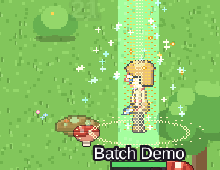
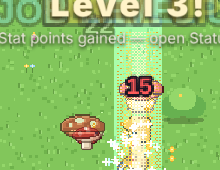
Batch 001: target-attached VFX follow their actor, demo test hardening, docs
- fx events carry an offset so slash/heal/level-up track their target
- demo checks facing against the real direction to the monster and
  triggers the hit reaction deterministically
- docs/art/BATCH001.md report, README and asset pipeline updates,
  in-game screenshots under docs/art/batch001/ingame

Claude-Session: https://claude.ai/code/session_01THGxN5U5MkyxvHYsgUsngi

diff --git a/src/core/world.ts b/src/core/world.ts
@@ -134,7 +134,7 @@ export interface Telegraph {
 
 export type WorldEvent =
   | { type: 'damage'; targetId: string; amount: number; crit: boolean; miss: boolean; kind: 'physical' | 'magic' | 'heal' | 'mp' | 'dot'; element?: Element }
-  | { type: 'fx'; fx: string; x: number; y: number; radius?: number; targetId?: string }
+  | { type: 'fx'; fx: string; x: number; y: number; radius?: number; targetId?: string; /** offset from the target, for effects that follow it */ offsetY?: number }
   | { type: 'projectile'; fromX: number; fromY: number; toX: number; toY: number; durationMs: number; fx: string; color?: string }
   | { type: 'levelUp'; kind: 'base' | 'job'; level: number }
   | { type: 'death'; id: string }
@@ -749,7 +749,7 @@ export class World {
     };
     if (kind === 'melee') {
       this.emit({ type: 'sound', key: 'swing' });
-      this.emit({ type: 'fx', fx: 'slash_small', x: m.x, y: m.y - 12 });
+      this.emit({ type: 'fx', fx: 'slash_small', x: m.x, y: m.y - 12, targetId: m.id, offsetY: -12 });
       resolve();
     } else {
       const travel = (dist(p.x, p.y, m.x, m.y) / this.data.balance.combat.projectileSpeed) * 1000;
@@ -924,7 +924,7 @@ export class World {
       this.recomputeStats();
       c.hp = this.stats.maxHp; c.mp = this.stats.maxMp; this.player.hp = c.hp;
       this.emit({ type: 'levelUp', kind: 'base', level: c.baseLevel });
-      this.emit({ type: 'fx', fx: 'level_up', x: this.player.x, y: this.player.y });
+      this.emit({ type: 'fx', fx: 'level_up', x: this.player.x, y: this.player.y, targetId: 'player', offsetY: 0 });
       this.emit({ type: 'sound', key: 'level_up' });
       this.message(`Base Level up! You are now level ${c.baseLevel}. Stat points: ${c.statPoints}`, 'quest');
     }
@@ -1779,7 +1779,7 @@ export class World {
     this.char.mp = this.stats.maxMp;
     this.player.hp = this.char.hp;
     this.cureStatuses(this.player, ['poison', 'burn', 'bleed', 'curse', 'blind', 'silence', 'slow']);
-    this.emit({ type: 'fx', fx: 'heal', x: this.player.x, y: this.player.y, targetId: 'player' });
+    this.emit({ type: 'fx', fx: 'heal', x: this.player.x, y: this.player.y, targetId: 'player', offsetY: 0 });
     this.emit({ type: 'sound', key: 'heal' });
     return { ok: true, message: 'You feel fully rested.' };
   }
@@ -1836,7 +1836,7 @@ export class World {
       this.recomputeStats();
       this.char.hp = this.stats.maxHp; this.char.mp = this.stats.maxMp;
       this.emit({ type: 'levelUp', kind: 'base', level: this.char.baseLevel });
-      this.emit({ type: 'fx', fx: 'level_up', x: this.player.x, y: this.player.y });
+      this.emit({ type: 'fx', fx: 'level_up', x: this.player.x, y: this.player.y, targetId: 'player', offsetY: 0 });
       this.message(`Base Level up! You are now level ${this.char.baseLevel}.`, 'quest');
     }
     if (this.char.jobLevel > before.j && !r.jobChanged) {

diff --git a/src/game/scenes/GameScene.ts b/src/game/scenes/GameScene.ts
@@ -289,12 +289,22 @@ export class GameScene extends Phaser.Scene {
           const isPlayer = e.targetId === 'player';
           const col = isPlayer ? '#ff5a5a' : e.crit ? '#ffd34d' : e.kind === 'magic' ? '#c9a6ff' : e.kind === 'dot' ? '#a9e04a' : '#ffffff';
           floatText(this, tgt.x, y, e.crit ? `${e.amount}!` : `${e.amount}`, col, e.crit ? 24 : isPlayer ? 15 : 17);
-          if (e.kind === 'physical') playSpriteFx(this, 'fx_hit_basic', tgt.x, tgt.y - (isPlayer ? 30 : 16));
+          if (e.kind === 'physical') {
+            const dy = isPlayer ? 30 : 16;
+            playSpriteFx(this, 'fx_hit_basic', tgt.x, tgt.y - dy, { follow: () => ({ x: tgt.x, y: tgt.y - dy }) });
+          }
           if (!isPlayer && e.element && e.element !== 'neutral' && e.kind !== 'dot') playFx(this, ELEMENT_FX[e.element] ?? 'slash_small', tgt.x, tgt.y - 10);
         }
         break;
       }
-      case 'fx': playFx(this, e.fx, e.x, e.y, e.radius, { flipX: e.fx.startsWith('slash') && w.player.x > e.x }); break;
+      case 'fx': {
+        // Effects that carry an offset are attached to their target and move with it.
+        const actor = e.offsetY === undefined ? undefined : e.targetId === 'player' ? w.player : e.targetId ? w.monsters.get(e.targetId) : undefined;
+        const ox = 0, oy = e.offsetY ?? 0;
+        const follow = actor ? () => (e.targetId === 'player' || !(actor as MonsterActor).dead ? { x: actor.x + ox, y: actor.y + oy } : null) : undefined;
+        playFx(this, e.fx, e.x, e.y, e.radius, { flipX: e.fx.startsWith('slash') && w.player.x > e.x, follow });
+        break;
+      }
       case 'projectile': playProjectile(this, e.fx, e.fromX, e.fromY, e.toX, e.toY, e.durationMs, e.color); break;
       case 'sound': audio.play(e.key); break;
       case 'levelUp': floatText(this, w.player.x, w.player.y - 90, e.kind === 'base' ? 'LEVEL UP!' : 'JOB LEVEL UP!', e.kind === 'base' ? '#ffd34d' : '#7fd6ff', 22); break;

diff --git a/src/game/render/effects.ts b/src/game/render/effects.ts
@@ -93,7 +93,7 @@ const SPRITE_FX: Record<string, string> = {
  * (feet for heal/level-up, centre for hits). Returns false when the art is
  * not loaded so callers can fall back to particles.
  */
-export function playSpriteFx(scene: Phaser.Scene, key: string, x: number, y: number, opts: { flipX?: boolean; depth?: number } = {}): boolean {
+export function playSpriteFx(scene: Phaser.Scene, key: string, x: number, y: number, opts: { flipX?: boolean; depth?: number; follow?: () => { x: number; y: number } | null } = {}): boolean {
   const v = vfxMeta(scene, key);
   if (!v) return false;
   const animKey = `anim_${key}`;
@@ -104,11 +104,15 @@ export function playSpriteFx(scene: Phaser.Scene, key: string, x: number, y: num
   s.setDepth(opts.depth ?? y + 2000);
   if (v.blendMode === 'add') s.setBlendMode(Phaser.BlendModes.ADD);
   s.play(animKey);
-  s.once(Phaser.Animations.Events.ANIMATION_COMPLETE, () => s.destroy());
+  // Target-attached effects track their target (offset kept) until they finish.
+  const follow = opts.follow;
+  const track = () => { const p = follow?.(); if (p) s.setPosition(Math.round(p.x), Math.round(p.y)); };
+  if (follow) scene.events.on(Phaser.Scenes.Events.POST_UPDATE, track);
+  s.once(Phaser.Animations.Events.ANIMATION_COMPLETE, () => { if (follow) scene.events.off(Phaser.Scenes.Events.POST_UPDATE, track); s.destroy(); });
   return true;
 }
 
-export function playFx(scene: Phaser.Scene, fx: string, x: number, y: number, radius?: number, opts: { flipX?: boolean } = {}) {
+export function playFx(scene: Phaser.Scene, fx: string, x: number, y: number, radius?: number, opts: { flipX?: boolean; follow?: () => { x: number; y: number } | null } = {}) {
   if (SPRITE_FX[fx] && playSpriteFx(scene, SPRITE_FX[fx], x, y, opts)) return;
   const spec = SPECS[fx];
   if (!spec || spec.count <= 1) return;

diff --git a/docs/art/BATCH001.md b/docs/art/BATCH001.md
@@ -1,0 +1,117 @@
+# Batch 001: Willowbrook Starter Pack
+
+Status: **made, QA-checked and running in the game.** Everything below is regenerated with
+`npm run assets:batch001`. The in-game demo and alignment test is `npm run demo:batch001`.
+
+## How the art is made
+
+There was no image-generation model in this pipeline. Every pixel comes from
+`tools/asset-studio/`, a deterministic pixel-art generator written for this project:
+
+- Parts are drawn as material shapes (ellipses, capsules, polygons) on a *material canvas*.
+  Shading is automatic cel shading with light from the upper-left: top/left edges take the
+  light tone, bottom/right edges the shadow tone, and the bottom-right corner the deep tone.
+  The selective outline is the darkest tone of each ramp.
+- Every material uses a hand-picked 5-tone hue-shifted ramp (`palette.ts`). No anti-aliasing:
+  alpha is 0 or 255 only. Fades use 4×4 Bayer ordered dithering.
+- Pose transforms (mirroring, falling, lying down) are applied to the materials *before*
+  shading, so lighting stays upper-left in every frame and direction.
+- The QA (`qa.ts`) measures the actual pixels. It never just assumes a check passed.
+
+## Files produced (121 files under `public/assets/`)
+
+| Asset | Files | Frames / size |
+|---|---|---|
+| Novice composite sheets | `characters/novice/novice_{idle,walk,attack,cast,hit,death}_sheet.png` | 48×64, 4 rows (down, left, right, up). idle 5 @160ms, walk 8 @90, attack 6 @75, cast 6 @100, hit 3 @90, death 8 @110 |
+| Novice layers (for customisation) | `characters/novice/layers/` (66 PNGs): body A/B, hair front ×5 styles, hair back (long, ponytail), dagger over/under, per animation | same grid as the sheets |
+| Novice concept / portrait | `characters/novice/novice_concept.png`, `portraits/novice_portrait.png` | 4 views + palette |
+| Dagger | `weapons/dagger/weapon_dagger.png` | 12×5 |
+| Novice metadata | `animations/novice.json` | frame timings, events (footstep, impact, cast, land), weapon socket and angle per frame, VFX attach points, hitbox, palette-swap keys |
+| Leaf Slime, Mushling, Horn Rabbit | `monsters/<id>/<id>_{idle,walk,attack,hit,death}_sheet.png` | 48×48, 4 rows. idle 5, walk 8, attack 6, hit 3, death 8 |
+| Monster metadata / portraits / drops | `animations/monsters/<id>.json`, `portraits/monsters/<id>_portrait.png`, `items/{jelly,mushling_cap,rabbit_horn}.png` | drop icons 32×32 |
+| Willowbrook ground tileset | `tilesets/willowbrook/willowbrook_ground.{png,json,tsj}` | 32×32. Grass ×4, dual-grid autotiles (15 masks + variants) for dirt, cobble path and farm soil; flowers, tufts, pebbles, crops; thicket, fences, canopy overhang. The `.tsj` has Tiled wang sets |
+| Environment props | `environment/willowbrook/willowbrook_objects.{png,json}` (Phaser atlas) | 3 oak variants, bush, rock, crate, barrel, well, fountain, signpost, anvil, lamp post, planter, haystack |
+| Buildings | `environment/willowbrook/buildings/willowbrook_{inn_8x6,smithy_8x6,shop_7x5,guild_10x6,house_6x5,house_5x4}.png` | timber-frame. Signboards use icons, not text |
+| Tiled map | `maps/willowbrook/willowbrook.tmj` | Ground, terrain overlays, decoration, walls, above-player, objects, buildings, collision, spawns, interaction zones, portals |
+| VFX | `vfx/physical/fx_sword_slash_sheet.png` (64×64 ×6 @50ms), `vfx/physical/fx_hit_basic_sheet.png` (48×48 ×5 @45), `vfx/holy/fx_heal_sheet.png` (64×96 ×10 @70), `vfx/special/fx_level_up_sheet.png` (96×128 ×12 @80), each with a `.json` | origin, impact frame, attach point, sound event |
+| Batch manifest | `manifests/batch001.json` | entry point the game loads |
+
+The full list is in `docs/art/batch001/files.txt`. Contact sheets and the QA report are in
+`docs/art/batch001/`.
+
+## QA: 551 / 551 checks passed
+
+Per sprite sheet:
+- Sheet dimensions match the frame grid.
+- Binary alpha.
+- At most 64 colours.
+- No empty frames.
+- No frame touches the cell edge (no clipping).
+- Transparent corners.
+- Every frame is distinct within its direction.
+- Feet on the baseline: y = 61 for the character (except death), y = 45 for monster idle and hit.
+- The idle pose is centred within ±3 px.
+- The left and right rows mirror each other (silhouette IoU ≥ 90%).
+
+Tileset:
+- Tiles are on the 32 px grid.
+- Binary alpha.
+- Autotile seams match on every shared edge (worst mismatch ≤ 2 px).
+- Full tiles are opaque.
+
+Every other PNG (layers, portraits, icons, concept, weapon, buildings, atlas) gets the image
+checks: binary alpha, not empty, transparent background, and the colour budget.
+
+## In-game integration
+
+- `src/game/batchArt.ts` loads the batch manifest, then the metadata, then the images.
+  - The Novice player sprite is built at runtime from the layers in the chosen hair style and
+    body type. Skin, hair and eye colours are recoloured from the palette keys into
+    hue-shifted ramps generated from the player's chosen colours.
+  - The dagger layer is drawn only when a dagger is equipped.
+- Leaf Slime, Mushling and Horn Rabbit use the 4-direction sheets. The feet pivot is 45/48 and
+  no mirroring is applied.
+- The four VFX replace the old particle versions:
+  - the slash on melee swings and on Bash / Counter Attack
+  - the hit spark on physical damage
+  - heal from potions, First Aid and respawn
+  - the level-up pillar
+- Effects attached to a target follow it while they play.
+- Willowbrook's ground, terrain transitions, decoration, walls and canopy are drawn from the
+  tileset with the same dual-grid rule as the `.tmj` export. Props come from the atlas and
+  buildings from the building PNGs.
+- If any Batch 001 file is missing, the game falls back to the procedural placeholders.
+
+### Demo / alignment test: `tests/e2e/batch001-demo.mjs`: 26 / 26 passed
+
+The demo runs in real Chromium and checks the live Phaser objects:
+- The player uses the composed Novice texture, and its pivot sits on the world position.
+- Idle cycles through all 5 frames.
+- WASD walking uses the correct direction row (down 0, left 1, right 2, up 3) with no mirroring.
+- Heal and Level Up are anchored at the feet.
+- For each of the three monsters:
+  - It uses its 4-direction sheet with the feet pivot.
+  - The slash is centred on the target, and the hit spark lands on the target.
+  - The player's attack animation faces the monster.
+  - The monster's hit or attack animation plays, then its death animation.
+
+The screenshots are in `docs/art/batch001/ingame/`.
+
+The demo also found two bugs, now fixed:
+- Keyboard movement never switched the player to the walk animation (Phase 1 bug; a
+  regression test has been added).
+- Monster sprites didn't switch texture between animations (a bug in the new integration code,
+  caught before commit).
+
+## Known limits / not in this batch
+
+- **Novice:** the spec's run, victory, sit and emote animations aren't made yet. Only the
+  dagger has weapon art, so a club is not drawn.
+- **Other characters:** Knight, Ranger and Mage, and all NPCs, still use the procedural sheets.
+- **Other content:** the other 5 monsters, the boss, and the Sunny Meadow and Whispering
+  Forest tilesets are still procedural.
+- **Character creation and HUD:** the preview and HUD portrait still show the procedural look.
+- **Monster hit reaction:** it plays only when the monster isn't mid-attack (a world-timing
+  rule), so it's rarely visible on the Horn Rabbit.
+- **Test speed:** headless Chromium (software WebGL) runs the game at roughly 15% of real
+  time, so the demo waits on game time.

diff --git a/README.md b/README.md
@@ -90,6 +90,8 @@ Ground-target skills (Arrow Rain, Wind Trap, Fire Wall, Thunderstorm, Meteor) la
 
 Screenshots from the e2e run are written to `tests/e2e/screenshots/` (git-ignored).
 
+**Batch 001 art (Willowbrook Starter Pack):** asset QA **551 / 551** checks passed (`npm run assets:batch001`), and the in-game demo **26 / 26** (`npm run demo:batch001`). See [docs/art/BATCH001.md](docs/art/BATCH001.md).
+
 ## Project structure
 ```
 src/
@@ -102,11 +104,12 @@ public/assets/asset-manifest.json   asset keys + sprite contracts (replace place
 tests/       unit/, integration/, e2e/, helpers/ (bot & scenario builders)
 docs/        ARCHITECTURE.md, ASSET_PIPELINE.md
 scripts/     generate-asset-manifest.mjs
+tools/asset-studio/   pixel-art generator + QA for the production art batches
 ```
 See [docs/ARCHITECTURE.md](docs/ARCHITECTURE.md) and [docs/ASSET_PIPELINE.md](docs/ASSET_PIPELINE.md).
 
 ## Not done yet (honest list)
-- **Everything is a placeholder in art and audio.** The sprites, tiles, icons, music and SFX are generated at runtime. They're original and readable, but they aren't production art.
+- **Most art and all audio are still placeholders.** Batch 001 production art covers the Novice, Leaf Slime, Mushling, Horn Rabbit, Willowbrook (tiles, props, buildings) and 4 VFX ([docs/art/BATCH001.md](docs/art/BATCH001.md)). Everything else (the other classes, NPCs, monsters and maps, plus all music and SFX) is still generated at runtime.
 - **No multiplayer.** There's no login/register, server, database, party, guild, trading or marketplace (Phase 3). Chat only echoes locally and says so. Saves live in browser `localStorage`.
 - **Not built in Phase 1:** Priest, Assassin and Merchant; advanced jobs; refinement (a stat-scaling hook exists in `refineMods`, but there's no UI or NPC); monster cards; Rune Constellation; pets and mounts; crafting; dungeons; world events; day/night; weather; PvP; Guild War.
 - Only 3 of the 30 maps, 8 of the 60 monsters, and 1 test boss (Grukk) exist. The 6 major bosses are planned for Phase 4.

diff --git a/docs/ASSET_PIPELINE.md b/docs/ASSET_PIPELINE.md
@@ -6,6 +6,14 @@ none of it comes from another game. The placeholders are still pixel art, not gr
 are placeholders. Each one is listed in `public/assets/asset-manifest.json` with
 `"placeholder": true`.
 
+## Production art batches
+
+Production art is generated by `tools/asset-studio/` and loaded from
+`public/assets/manifests/batch001.json` by `src/game/batchArt.ts`. Each class, monster,
+tileset or VFX listed there replaces its procedural placeholder; anything missing falls back
+automatically. See [art/BATCH001.md](art/BATCH001.md) for what Batch 001 contains, the QA
+rules, and the in-game alignment test.
+
 ## How replacement works
 
 1. Put the image in `public/assets/` (for example `public/assets/sprites/mon_leaf_slime.png`).
